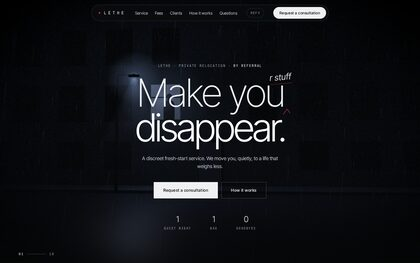
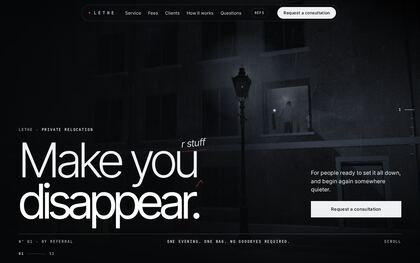
Process write-up: rounds 8 to 11, final screenshots and mapping

diff --git a/process/index.html b/process/index.html
@@ -295,13 +295,13 @@ table.map td.keep .mini{width:100%}
 
 <!-- ============ COVER ============ -->
 <section class="cover">
-  <div class="draft">DRAFT 2 · 23 NOV 2026</div>
+  <div class="draft">FINAL · 24 NOV 2026</div>
   <p class="kick">Class 3 homework · interactive landing page</p>
   <h1>How we prompted</h1>
   <p class="sub">Every prompt, in order: what the feedback asked for, the prompt we gave the agents, the moodboard references behind it, what came back, and what we fixed. Niche: a moving company.</p>
   <div class="stats">
-    <div><b>7</b><span>rounds, 23 Nov 01:20 to 19:05</span></div>
-    <div><b>9</b><span>structured prompts, shown here in full</span></div>
+    <div><b>11</b><span>rounds, 23 Nov 01:20 to 24 Nov 02:55</span></div>
+    <div><b>13</b><span>structured prompts, shown here in full</span></div>
     <div><b>4</b><span>builder agents at most, working in parallel</span></div>
     <div><b>18</b><span>finished page versions; one chosen and polished</span></div>
   </div>
@@ -309,9 +309,9 @@ table.map td.keep .mini{width:100%}
     <div><i>01</i><span><a href="#brief">The brief, the niche and the moodboard</a></span></div>
     <div><i>02</i><span><a href="#map">Moodboard to website: which reference went where</a></span></div>
     <div><i>03</i><span><a href="#workflow">The workflow: one orchestrator, several builders</a></span></div>
-    <div><i>04</i><span><a href="#rounds">Round by round, prompts 1 to 7</a></span></div>
+    <div><i>04</i><span><a href="#rounds">Round by round, prompts 1 to 11</a></span></div>
     <div><i>05</i><span><a href="#anatomy">Anatomy of a good prompt</a></span></div>
-    <div><i>06</i><span><a href="#live">Live page and final screenshots (to add)</a></span></div>
+    <div><i>06</i><span><a href="#live">Live page, final screenshots and what changed</a></span></div>
   </div>
 </section>
 
@@ -355,7 +355,7 @@ table.map td.keep .mini{width:100%}
   <table class="map">
     <tr><th>Section</th><th>Moodboard keep</th><th>What we took from it</th><th>On the page</th></tr>
     <tr><td class="sec">Nav</td><td class="keep"><figure><img src="img/mb-N31.jpg" alt=""><figcaption><b>N31</b> skylan.it</figcaption></figure></td><td class="took">Dark floating pill, always centred, one solid CTA</td><td class="built"><img src="img/map-nav.jpg" alt=""></td></tr>
-<tr><td class="sec">Hero</td><td class="keep"><figure><img src="img/mb-H02.jpg" alt=""><figcaption><b>H02</b> manuport-logistics.com</figcaption></figure></td><td class="took">Full-bleed scene behind very large type, three figures under it</td><td class="built"><img src="img/map-hero.jpg" alt=""></td></tr>
+<tr><td class="sec">Hero</td><td class="keep"><figure><img src="img/mb-H02.jpg" alt=""><figcaption><b>H02</b> manuport-logistics.com</figcaption></figure></td><td class="took">Full-bleed scene behind very large type; since round 8 on an editorial grid, headline low left, one line and one button low right</td><td class="built"><img src="img/map-hero.jpg" alt=""></td></tr>
 <tr><td class="sec">Premise</td><td class="keep"><figure><img src="img/mb-H02.jpg" alt=""><figcaption><b>H02</b> manuport-logistics.com</figcaption></figure></td><td class="took">One large line, three short facts under a rule</td><td class="built"><img src="img/map-premise.jpg" alt=""></td></tr>
 <tr><td class="sec">Three services</td><td class="keep"><figure><img src="img/mb-S05.jpg" alt=""><figcaption><b>S05</b> Movara (Dribbble)</figcaption></figure></td><td class="took">Row of cards; on tablet and phone the active one expands</td><td class="built"><img src="img/map-three-services.jpg" alt=""></td></tr>
 <tr><td class="sec">The evening</td><td class="keep"><figure><img src="img/mb-S02.jpg" alt=""><figcaption><b>S02</b> Logistics-Lion (Dribbble)</figcaption></figure></td><td class="took">Dark logistics panel, flattened to four marks on one line</td><td class="built"><img src="img/map-the-evening.jpg" alt=""></td></tr>
@@ -363,17 +363,19 @@ table.map td.keep .mini{width:100%}
 <tr><td class="sec">Kind words</td><td class="keep"><figure><img src="img/mb-T07.jpg" alt=""><figcaption><b>T07</b> Testimonial Website Sectio (Dribbble)</figcaption></figure></td><td class="took">The V12 portrait cards with covered eyes, rewritten</td><td class="built"><img src="img/map-kind-words.jpg" alt=""></td></tr>
 <tr><td class="sec">How it works</td><td class="keep"><figure><img src="img/mb-S06.jpg" alt=""><figcaption><b>S06</b> Logistics Service Website  (Dribbble)</figcaption></figure></td><td class="took">Numbered process row, four steps</td><td class="built"><img src="img/map-how-it-works.jpg" alt=""></td></tr>
 <tr><td class="sec">What we handle</td><td class="keep"><figure><img src="img/mb-S23.jpg" alt=""><figcaption><b>S23</b> cal.com</figcaption></figure></td><td class="took">Four equal feature cards, label over title over one line</td><td class="built"><img src="img/map-what-we-handle.jpg" alt=""></td></tr>
+<tr><td class="sec">The drive</td><td class="keep"><figure><img src="img/mb-H02.jpg" alt=""><figcaption><b>H02</b> manuport-logistics.com</figcaption></figure></td><td class="took">One large line over the scene, as Premise. The scene carries the section (added in round 8)</td><td class="built"><img src="img/map-the-drive.jpg" alt=""></td></tr>
+<tr><td class="sec">Afterwards</td><td class="keep"><figure><img src="img/mb-H02.jpg" alt=""><figcaption><b>H02</b> manuport-logistics.com</figcaption></figure></td><td class="took">One large line over the scene (added in round 9)</td><td class="built"><img src="img/map-afterwards.jpg" alt=""></td></tr>
 <tr><td class="sec">Questions</td><td class="keep"><figure><img src="img/mb-P29.jpg" alt=""><figcaption><b>P29</b> linear.app</figcaption></figure></td><td class="took">Two-column question list under a rule. The moodboard has no FAQ category; this is the closest kept reference</td><td class="built"><img src="img/map-questions.jpg" alt=""></td></tr>
 <tr><td class="sec">Consultation</td><td class="keep"><figure><img src="img/mb-C02.jpg" alt=""><figcaption><b>C02</b> The Funded Bettor (Dribbble)</figcaption></figure></td><td class="took">Centred call to action, copy over the form</td><td class="built"><img src="img/map-consultation.jpg" alt=""></td></tr>
 <tr><td class="sec">Footer</td><td class="keep"><figure><img src="img/mb-F06.jpg" alt=""><figcaption><b>F06</b> Footer Design (Dribbble)</figcaption></figure></td><td class="took">Dark footer line, outline wordmark (phone), plain-language terms</td><td class="built"><img src="img/map-footer.jpg" alt=""></td></tr>
   </table>
-  <p class="note">All sections of the final page are listed, including the four added in round 7. On the page itself, the R key or the Refs switch in the nav shows these ids over each section.</p>
+  <p class="note">All sections of the final page are listed, including the four added in round 7, the drive (round 8) and Afterwards (round 9). The right-hand pictures are the live page on 24 Nov. The depth indicator added in round 11 has no moodboard keep: it copies the page's own counter. On the page itself, the R key or the Refs switch in the nav shows these ids over each section.</p>
   <div class="card"><h4>Class gallery pieces on the final page</h4>
     <ul style="margin-top:4pt">
       <li><b>GSAP Observer, full-page sections:</b> the section snap. One scroll step moves exactly one section.</li>
       <li><b>Cult UI, expandable cards:</b> the three services and the questions on tablet and phone.</li>
-      <li><b>Magic UI, blur-fade:</b> each section's content arrives from blur when the section becomes active.</li>
-      <li><b>Interactive background:</b> the 3D night scene, which advances one beat per section and tilts slightly with the pointer.</li>
+      <li><b>Magic UI, blur-fade:</b> each section's content fades and rises in when the section becomes active. The blur itself was removed in round 10, because blurring text over a live 3D scene cost frames.</li>
+      <li><b>Interactive background:</b> the 3D night scene, which advances one story beat per section and moves slightly with the pointer.</li>
     </ul>
     <p class="note" style="margin:4pt 0 0">The gallery pieces are rebuilt from their behaviour in plain HTML, CSS and JavaScript, as the class allowed ("copy the code or describe the piece to the AI").</p></div>
 </section>
@@ -880,7 +882,7 @@ table.map td.keep .mini{width:100%}
 </section>
 
 <section class="round" id="round-7">
-  <div class="rhead"><div class="no">7</div><div><h3>Polish V16 into the final page</h3><p>23 Nov 19:05 · agent 3 · in progress as this draft is written</p></div></div>
+  <div class="rhead"><div class="no">7</div><div><h3>Polish V16 into the final page</h3><p>23 Nov 19:05 · agent 3</p></div></div>
   <p class="ask"><b>What the feedback asked for</b>V16 is the one. Make the wording less direct, so that every line reads as a legitimate service. Add more sections with more information. Make the animation load earlier, look sharper and feel more dramatic.</p>
   <div class="prompt"><div class="plabel">Prompt 7 · 23 Nov 19:05 · to agent 3</div>
 <div class="ph ph1">Round 7: polish V16 into the final homework page</div>
@@ -915,7 +917,7 @@ table.map td.keep .mini{width:100%}
 </div>
   <h3>What came back</h3>
   <div class="thumbs c4"><figure><img src="img/r7-hero.jpg" alt=""><figcaption>V16 after polish: hero</figcaption></figure><figure><img src="img/r7-how.jpg" alt=""><figcaption>V16: how it works</figcaption></figure><figure><img src="img/r7-faq.jpg" alt=""><figcaption>V16: questions</figcaption></figure><figure><img src="img/r7-phone.jpg" alt=""><figcaption>V16 phone 390: hero</figcaption></figure></div>
-  <p class="note">The page as it stood at 19:30 on 23 Nov, with the four new sections in place. The polish may still be in progress; the frame-rate figure and the final snap-test result go here when the done line arrives.</p>
+  <ul><li>The four new sections landed: eleven snap pages on desktop, thirteen on tablet, fifteen on phone.</li><li>The snap test passed at five screen sizes, including a trackpad-momentum test.</li><li>The agent reported the frame rate as measured (37 to 61 fps with other jobs running on the laptop), below the 50 fps asked for on some pages.</li></ul>
   <div class="card lesson"><h4>What this prompt does differently</h4><ul style="margin-top:4pt">
     <li><b>It gives a test for copy.</b> "Every line, quoted alone, must read as a legitimate service" is something the agent can check line by line. "Make it less direct" is not.</li>
     <li><b>It turns "better animation" into three separate requirements:</b> earlier (scene visible within about 600 ms), sharper (pixel ratio and antialiasing), more dramatic (light changes, camera weight, one slow beat), with a frame-rate floor so quality does not cost smoothness.</li>
@@ -923,6 +925,172 @@ table.map td.keep .mini{width:100%}
   </ul></div>
 </section>
 
+<section class="round" id="round-8">
+  <div class="rhead"><div class="no">8</div><div><h3>Realistic scene, a ride that shows relief, a factory ending</h3><p>23 Nov 19:57 · agent 3</p></div></div>
+  <p class="ask"><b>What the feedback asked for</b>Make the 3D realistic, not low-poly. End at a large factory, not a house. Redo the hero layout and sharpen all the wording. During the drive, show him being freed from the circles of responsibility he carried. <span style="color:#6b5600">In his words: &ldquo;It is still too low poly... instead of ending it in a farmhouse, let&#x27;s end it in a factory... could you animate something like he&#x27;s being relieved from the circles?&rdquo;</span></p>
+  <div class="prompt"><div class="plabel">Prompt 8 · 23 Nov 19:57 · to agent 3</div>
+<div class="ph ph1">Round 8: V16 to final quality</div>
+<div class="gap"></div>
+<div class="tg">&lt;context&gt;</div>
+<div class="pp">The client reviewed the live V16. The 3D still looks low-poly, the hero layout and the wording are not good enough, and the story should not end at a single house. He likes how the page shows the team coming for the client. During the drive he wants to see the person being relieved of what he carried. Target: 22:30 on 23 Nov (+06); the live site is updated after this round.</div>
+<div class="gap"></div>
+<div class="tg">&lt;task&gt;</div>
+<div class="pp">Agent 3 takes V16 to final quality in place. Keep a copy of the round 7 page first.</div>
+<div class="gap"></div>
+<div class="tg">&lt;requirements&gt;</div>
+<div class="pl" style="margin-left:0pt"><span class="mk">1.</span>Realistic, high-poly 3D. Replace the primitives with real models and physically based materials: a van, human figures (rigged if a licensed one fits), street props, building facades. Night lighting from an HDRI, roughness and normal maps, soft shadows, wet-road reflections, headlight beams, depth of field and film grain. Preload during the hero; hold 45 fps or better on this laptop&#x27;s integrated GPU at a pixel ratio of 1.5 or less; a lighter level of detail on phones.</div>
+<div class="pl" style="margin-left:0pt"><span class="mk">2.</span>A new ending: a large factory at night, with sodium lights, chimneys, loading bays and steam. Ominous and ambiguous: &quot;the facility where new beginnings are processed&quot;. Not a house.</div>
+<div class="pl" style="margin-left:0pt"><span class="mk">3.</span>The ride is relief. Rings around the seated figure, each one a burden with a label. They crack and fall away or dissolve into light one by one, until he sits lighter and upright. Restrained and cinematic, never cartoonish, and legally ambiguous: relief and a fresh start, nothing about evading anyone.</div>
+<div class="pl" style="margin-left:0pt"><span class="mk">4.</span>Hero layout and wording, redone: an editorial grid, the caret headline as the focus, one clear call to action, a short sub-line that sells relief; better hierarchy and spacing at 390, 768 and 1440 px. Rewrite all section copy to be sharper and more premium, under the round 7 copy rules.</div>
+<div class="gap"></div>
+<div class="tg">&lt;references&gt;</div>
+<div class="pl" style="margin-left:0pt"><span class="mk">&ndash;</span>Free-licensed assets only (CC0, or CC-BY with credit): models, textures and the HDRI, each listed with source and licence.</div>
+<div class="pl" style="margin-left:0pt"><span class="mk">&ndash;</span>The moodboard keep of every section stays in the references layer; update it for new or changed sections.</div>
+<div class="gap"></div>
+<div class="tg">&lt;decisions&gt;</div>
+<div class="pp">Already decided: section snap, the centred pill nav, the cold palette, the phone and tablet layouts, reduced motion and the references layer all stay. Keep the scenes of the team coming for the client.</div>
+<div class="pp">Your call: which models, how the rings look, the exact wording.</div>
+<div class="pp">Ask me before: paid assets, or sending anything outside this laptop other than downloading free assets.</div>
+<div class="gap"></div>
+<div class="tg">&lt;verification&gt;</div>
+<div class="pp">Measure the frame rate. Re-run the snap test. Screenshot every section at 390, 768 and 1440 px.</div>
+<div class="gap"></div>
+<div class="tg">&lt;output&gt;</div>
+<div class="pp">The page, the model folder (under 25 MB), an assets file with every source and licence, the sources and responsive files, screenshots, a preview image. Renders go through the shared render queue, without a visible browser window. Print DONE r8-V16 &lt;path&gt; &lt;one line&gt;.</div>
+</div>
+  <h3>Which moodboard reference each change maps to</h3>
+  <table class="t"><tr><th>Change</th><th>Section</th><th>Moodboard keep</th></tr><tr><td>Hero redone on a 12-column grid</td><td>Hero</td><td class="ids">H02</td></tr><tr><td>New section: the drive (one line over the scene)</td><td>The drive</td><td class="ids">H02</td></tr><tr><td>Factory behind the last two sections; their layout is unchanged</td><td>Questions, Consultation</td><td class="ids">P29, C02</td></tr><tr><td>Copy rewritten, layouts kept</td><td>Services, Evening, Fees, Kind words, How it works, What we handle</td><td class="ids">S05, S02, S02 + P08, T07, S06, S23</td></tr></table>
+  <h3>What came back</h3>
+  <div class="thumbs c4"><figure><img src="img/r7-hero.jpg" alt=""><figcaption>Before (round 7): hero</figcaption></figure><figure><img src="img/r8-hero.jpg" alt=""><figcaption>After: hero on an editorial grid</figcaption></figure><figure><img src="img/r8-ride.jpg" alt=""><figcaption>New: the drive, five labelled rings</figcaption></figure><figure><img src="img/r8-factory.jpg" alt=""><figcaption>New ending: the facility</figcaption></figure></div>
+  <ul><li>Real rigged adults with motion-captured walk, idle and sitting clips (a free MIT-licensed avatar library); street lamp, bed, chair, barrels and all surface textures from a CC0 library; a night HDRI graded to the cold palette.</li><li>The drive became a section of its own: the client sits slumped inside five labelled steel rings that break one by one.</li><li>The agent changed one thing on purpose and said so: the rings read OBLIGATIONS, EXPECTATIONS, THE JOB, THE NOISE, THE WEIGHT. The prompt suggested "rent", "debt" and "the name"; a ring marked "debt" falling away is the one image a reader could quote against the firm, and the round 7 copy rule comes first.</li><li>Honest gaps in its report: no free realistic van could be downloaded without an account, so the van is modelled in code; 37 to 61 fps under load, with two pages under the 45 fps target; first frame after 4.2 s, not the 600 ms asked for in round 7.</li></ul>
+
+  <div class="card lesson"><h4>What we learned</h4><ul style="margin-top:4pt"><li>A rule from an earlier round still binds a later prompt. The agent weighed "labels like debt" against "nothing that implies leaving debts behind" and kept the older rule, then reported the deviation so the client could overrule it.</li><li>Asking for sources and licences in the output made the asset choices checkable: every model has a link and a licence line.</li><li>A frame-rate number in the prompt produced a measurement, and the measurement showed the target was missed. Without the number we would have been told "it runs well".</li></ul></div>
+</section>
+<section class="round" id="round-9">
+  <div class="rhead"><div class="no">9</div><div><h3>A household worth leaving, a better ring scene, readable type</h3><p>23 Nov 21:47 · agent 3 · add-ons at 22:21 and 22:26</p></div></div>
+  <p class="ask"><b>What the feedback asked for</b>Give the story a reason: an unhappy household, an argument, him at the window, her asleep while he is led out, and the same room afterwards. Recompose the ring scene. Make the font easier to read and fix the small layout faults. Then: optimise, and make sure the text wins over the 3D. <span style="color:#6b5600">In his words: &ldquo;When the guy is in his house, why not add some background that shows the household is abusive?... The box &quot;what would you leave behind&quot;: there is no padding above the line.&rdquo;</span></p>
+  <div class="prompt"><div class="plabel">Prompt 9 · 23 Nov 21:47, with two add-ons at 22:21 and 22:26 · to agent 3</div>
+<div class="ph ph1">Round 9: polish V16 before it is published</div>
+<div class="gap"></div>
+<div class="tg">&lt;context&gt;</div>
+<div class="pp">The client finds round 8 quite good and wants it polished before it goes out. The start of the story needs a reason: show that the household is an unhappy one. The scene with the rings is a good idea with a weak execution. The font should be easier to read, and there are small layout faults, starting with the &quot;What would you leave behind?&quot; box, which has no padding above its first line. No rush: quality first; the homework is due on Wed 25 Nov at 01:00.</div>
+<div class="gap"></div>
+<div class="tg">&lt;task&gt;</div>
+<div class="pp">Agent 3 polishes V16 in place. Keep a copy of the round 8 page first.</div>
+<div class="gap"></div>
+<div class="tg">&lt;requirements&gt;</div>
+<div class="pl" style="margin-left:0pt"><span class="mk">1.</span>Story beats at the start. Restrained and cinematic, never graphic, no violence shown:</div>
+<div class="pl" style="margin-left:9pt"><span class="mk">&ndash;</span>The house at night: a lit window, a cold, tense household.</div>
+<div class="pl" style="margin-left:9pt"><span class="mk">&ndash;</span>A new angle: a woman arguing with him and pointing at him; he stands withdrawn, head down.</div>
+<div class="pl" style="margin-left:9pt"><span class="mk">&ndash;</span>He looks out of the window; the team&#x27;s lights appear outside.</div>
+<div class="pl" style="margin-left:9pt"><span class="mk">&ndash;</span>Later that night: she is asleep; the team lead him out quietly; she does not wake.</div>
+<div class="pl" style="margin-left:9pt"><span class="mk">&ndash;</span>After the drive, back to the same household: life goes on unchanged, nobody has noticed yet. It must read as someone choosing to leave a bad home.</div>
+<div class="pl" style="margin-left:0pt"><span class="mk">2.</span>The relief scene, recomposed: rule of thirds, the figure lit from one side, the rings as readable shapes at different depths, a camera that drifts a few degrees on its own, every label legible, each ring&#x27;s release a beat of its own, and a final calm wide shot of him upright. It must read in one glance on a phone.</div>
+<div class="pl" style="margin-left:0pt"><span class="mk">3.</span>Type that is easier to read, phone first: body text at least 17 px on phone and 18 px on desktop, more line height, more contrast over the scene (a scrim where needed), heavier small labels, no thin grey text.</div>
+<div class="pl" style="margin-left:0pt"><span class="mk">4.</span>A polish pass: fix every small layout fault, starting with the form box. Check every section at 390, 768 and 1440 px for padding, alignment, overlaps and cut-off text.</div>
+<div class="pl" style="margin-left:0pt"><span class="mk">5.</span>Add-on, 22:21. Optimisation is a hard requirement: any PC or phone must run it without lag. Quality tiers chosen at load and adjusted live; smaller assets; later sections loaded lazily; first screen under about 3 MB. Measure and report.</div>
+<div class="pl" style="margin-left:0pt"><span class="mk">6.</span>Add-on, 22:26. Squint test, text first. The 3D is a mood layer, not the subject. Lift the blacks slightly, lower contrast and saturation, soften what sits behind text. Blur every screenshot and check that the text is still the strongest shape; save the blurred checks and note pass or fail per section.</div>
+<div class="gap"></div>
+<div class="tg">&lt;decisions&gt;</div>
+<div class="pp">Already decided: section snap, the centred pill nav, the palette and the legally safe copy stay.</div>
+<div class="pp">Your call: which second figure, the layout of the room, how the rings and their names are drawn.</div>
+<div class="gap"></div>
+<div class="tg">&lt;verification&gt;</div>
+<div class="pp">Snap test at five sizes. Frame rate per section under load and with a throttled CPU at a phone size. A performance audit score. First-load size.</div>
+<div class="gap"></div>
+<div class="tg">&lt;output&gt;</div>
+<div class="pp">The same files as round 8, plus the blurred squint checks. Print DONE r9-V16 &lt;path&gt; &lt;one line&gt;.</div>
+</div>
+  <h3>Which moodboard reference each change maps to</h3>
+  <table class="t"><tr><th>Change</th><th>Section</th><th>Moodboard keep</th></tr><tr><td>Story scenes behind unchanged layouts</td><td>Premise, Three services, The evening, Fees</td><td class="ids">H02, S05, S02, S02 + P08</td></tr><tr><td>New page: one large line over the room</td><td>Afterwards</td><td class="ids">H02</td></tr><tr><td>Ring scene recomposed; names as text</td><td>How it works, What we handle, The drive</td><td class="ids">S06, S23, H02</td></tr><tr><td>Form padding fixed</td><td>Consultation</td><td class="ids">C02</td></tr><tr><td>Type sizes, weights and greys</td><td>All sections</td><td class="ids">no change of reference</td></tr></table>
+  <h3>What came back</h3>
+  <div class="thumbs c4"><figure><img src="img/r9-argument.jpg" alt=""><figcaption>New: she points, he stands head down</figcaption></figure><figure><img src="img/r9-night.jpg" alt=""><figcaption>New: she sleeps; he is shown to the door</figcaption></figure><figure><img src="img/r9-rings.jpg" alt=""><figcaption>Ring scene, recomposed; names are sharp text</figcaption></figure><figure><img src="img/r9-after.jpg" alt=""><figcaption>New page: the same room, one empty chair</figcaption></figure></div>
+  <ul><li>The lit window became a real opening: from the street the argument is visible inside, and the camera flies through it into the room and back out.</li><li>One page was added, "Afterwards", between the drive and the facility; desktop now has 12 snap pages, tablet 14, phone 16.</li><li>The ring names are text laid over the scene, pinned to each ring, so they stay sharp on phones; a name is struck through in red when its ring breaks.</li><li>The form box fault was a later style rule that reset the padding to zero; fixed, with 16 px above the first line.</li><li>A fault no screenshot showed: every figure file carried a hidden ambient light, seven in all, which washed the indoor scenes white. Found by listing the lights in the running page.</li><li>Squint test: four desktop pages failed the first pass (her jacket, the lit door and the ring cage were as strong as the headline). After grading the scene down, every page passed at 390, 768 and 1440 px.</li><li>First screen 2.1 MB; three quality tiers. Not done and reported as such: the mesh and texture compression formats asked for, because the tools were not installed and downloading them was outside the round's rules.</li></ul>
+
+  <div class="card lesson"><h4>What we learned</h4><ul style="margin-top:4pt"><li>A story beat is a requirement like any other when it is written as a list: where, who, what they do, and the limit ("never graphic, no violence shown").</li><li>The squint test gave "text first" a pass or fail that the agent could run on its own screenshots, and it failed its own first pass.</li><li>Add-ons sent mid-round were folded in, but each one cost time: the report says plainly which parts of them were not done.</li></ul></div>
+</section>
+<section class="round" id="round-10">
+  <div class="rhead"><div class="no">10</div><div><h3>Speed pass: slower motion, faster page</h3><p>24 Nov 01:58 · agent 3</p></div></div>
+  <p class="ask"><b>What the feedback asked for</b>The page is slow and lags. Slow the animation down, make the site load fast, and use game-development optimisation. <span style="color:#6b5600">In his words: &ldquo;The website is slow, but I like it better. Make the animation slower but the site faster so it loads fast. It&#x27;s lagging a lot.&rdquo;</span></p>
+  <div class="prompt"><div class="plabel">Prompt 10 · 24 Nov 01:58 · to agent 3</div>
+<div class="ph ph1">Round 10: V16 speed pass</div>
+<div class="gap"></div>
+<div class="tg">&lt;context&gt;</div>
+<div class="pp">The client likes the round 9 page better, but it is slow and it lags a lot; that is now the main issue. He wants the animation slower and the site faster. Due before the class on Wed 25 Nov at 01:00.</div>
+<div class="gap"></div>
+<div class="tg">&lt;task&gt;</div>
+<div class="pp">Agent 3 makes the page load fast and run smoothly. The look and the story stay exactly as they are: this round is performance and pacing only. Keep a copy of the round 9 page first.</div>
+<div class="gap"></div>
+<div class="tg">&lt;requirements&gt;</div>
+<div class="pl" style="margin-left:0pt"><span class="mk">1.</span>Pacing: slow every camera move and scene transition by about 1.5 times. The snap must still land exactly.</div>
+<div class="pl" style="margin-left:0pt"><span class="mk">2.</span>Load fast: show the hero text and a still of the first scene at once, then fade the live scene in. Load by section: the current and the next section first, the rest while the browser is idle. Targets: first screen under 1 MB, total under 6 MB.</div>
+<div class="pl" style="margin-left:0pt"><span class="mk">3.</span>Smaller assets: re-check every texture (1K at most on desktop, 512 on phone), merge static props, strip unused animation, compress meshes. Install the compression tools if they are missing and use them.</div>
+<div class="pl" style="margin-left:0pt"><span class="mk">4.</span>Run smooth, by game-development rules: a 16 ms frame budget; static geometry merged, with frozen transforms and shared materials; one shadow light at a low map size; cheaper post-processing; figures updated only when visible; render less when nothing moves; drop resolution first and effects second, and never stutter.</div>
+<div class="pl" style="margin-left:0pt"><span class="mk">5.</span>Main thread: no layout work in scroll handlers; animate only transform and opacity; defer what is not needed for first paint.</div>
+<div class="gap"></div>
+<div class="tg">&lt;verification&gt;</div>
+<div class="pp">Report a before-and-after table: first-load size, time to first paint, the performance audit on mobile and desktop, frames per second per section idle and with a 4x slower CPU at 390 px, and the number of long tasks.</div>
+<div class="gap"></div>
+<div class="tg">&lt;output&gt;</div>
+<div class="pp">The updated page and assets, the table in the responsive report. Renders go through the shared render queue, without a visible browser window. Print DONE r10-V16 &lt;path&gt; &lt;one line&gt;.</div>
+</div>
+  <h3>Which moodboard reference each change maps to</h3>
+  <table class="t"><tr><th>Change</th><th>Section</th><th>Moodboard keep</th></tr><tr><td>No layout changes</td><td>All sections</td><td class="ids">all references unchanged</td></tr><tr><td>Card and panel backgrounds: blur removed</td><td>Three services, Fees, What we handle, Nav</td><td class="ids">S05, S02 + P08, S23, N31</td></tr></table>
+  <h3>What came back</h3>
+  <div class="thumbs c4"><figure><img src="img/r10-fees-before.jpg" alt=""><figcaption>Before: fee panels blur the live scene behind them</figcaption></figure><figure><img src="img/r10-fees.jpg" alt=""><figcaption>After: near-opaque panels, no blur</figcaption></figure><figure><img src="img/r10-hero.jpg" alt=""><figcaption>Hero: a still shows at once, the scene fades in</figcaption></figure><figure><img src="img/r10-handle.jpg" alt=""><figcaption>Same look and story as round 9</figcaption></figure></div>
+  <ul><li>Loading: bytes needed for the first live 3D frame went from 2.1 MB to 0.8 MB, and the whole page from 10.7 MB to 3.6 MB. Props and figures became compressed single files; the six animation clips became one small file.</li><li>Compositing: the five panels that blurred the live scene behind them now use near-opaque fills; text fades with opacity and movement only.</li><li>Rendering: on the laptop tier, no depth of field and no second scene pass; shadows redrawn every second frame; 315 static meshes merged; the scene drawn at half rate while a page rests.</li><li>Pacing: page turns 1.5 s instead of 1.0 s; ring breaks 2.5 s instead of 1.7 s.</li><li><b>The catch, stated in the report:</b> the automated browser already showed 60 frames per second before this round, so its frame numbers could not prove the lag was gone. The audit score barely moved on mobile (68 to 69).</li></ul>
+
+  <div class="card lesson"><h4>What we learned</h4><ul style="margin-top:4pt"><li><b>The measurement was the weak point, not the work.</b> The prompt asked for numbers but did not say where to measure. The agent measured in an automated browser without a window, where the page had never been slow. The client tested the result on two real machines and it was still slow.</li><li>A report that says "I cannot confirm this fixed what you saw" is more useful than a table of good numbers. It told us what the next prompt had to change.</li></ul></div>
+</section>
+<section class="round" id="round-11">
+  <div class="rhead"><div class="no">11</div><div><h3>Find the real cause, add a depth indicator, publish</h3><p>24 Nov 02:55 · agent 3</p></div></div>
+  <p class="ask"><b>What the feedback asked for</b>The round 10 build is still laggy and feels weird on two real machines. Open a real Chrome, look at the performance and network panels, find what is slow and fix it. Add six dashes on the right, numbered one to six, so people see how deep they are. <span style="color:#6b5600">In his words: &ldquo;It is still weird and slow... open a Chrome tab, check networking, check the performance tab, see why things are lagging... In the sidebar on the right, add dashes one after another.&rdquo;</span></p>
+  <div class="prompt"><div class="plabel">Prompt 11 · 24 Nov 02:55 · to agent 3</div>
+<div class="ph ph1">Round 11: real-browser speed, a depth indicator, then publish</div>
+<div class="gap"></div>
+<div class="tg">&lt;context&gt;</div>
+<div class="pp">The client tested the round 10 build on his desktop PC and on the laptop: still laggy, and the scrolling feels weird. The round 10 numbers came from a browser without a window and proved nothing about the real lag; they do not count any more. He also wants a way to see how deep into the page he is.</div>
+<div class="gap"></div>
+<div class="tg">&lt;task&gt;</div>
+<div class="pp">Agent 3 finds the real cause first, then fixes it, adds a depth indicator, and publishes to the real link. Keep a copy of the round 10 page first.</div>
+<div class="gap"></div>
+<div class="tg">&lt;requirements&gt;</div>
+<div class="pl" style="margin-left:0pt"><span class="mk">1.</span>Learn before making. Use a real Chrome with a GPU, started without taking focus. Record a performance trace while scrolling the whole page down and back, at 1440x900, once at full speed and once with the CPU slowed 4 times. Look at the network waterfall too: what blocks first paint, what arrives late.</div>
+<div class="pl" style="margin-left:0pt"><span class="mk">2.</span>Name the top causes with evidence from the trace: long tasks and what they are, layout work per scroll frame, shader compilation or texture upload when a section starts, GPU time, resolution, post-processing passes. Write cause, evidence, fix, and before and after.</div>
+<div class="pl" style="margin-left:0pt"><span class="mk">3.</span>&quot;Weird&quot; probably means the scroll feel: snap jumps, a delayed catch-up. Check it and make scrolling feel immediate.</div>
+<div class="pl" style="margin-left:0pt"><span class="mk">4.</span>Fix in order of impact, one change at a time, and trace again after each. Targets in the real Chrome on this laptop: no long task over 50 ms while scrolling, 95% of frames under 16.7 ms, no visible hitch at section changes. Text stays readable.</div>
+<div class="pl" style="margin-left:0pt"><span class="mk">5.</span>Depth indicator: on the right, vertically centred, six short dashes labelled 1 to 6. The current one is longer and brighter; clicking one goes to that part of the page. Match the type, colour and motion of the page counter at the bottom left. Small and quiet, never over text; dots on a phone. Usable by keyboard and screen reader.</div>
+<div class="pl" style="margin-left:0pt"><span class="mk">6.</span>Publish: copy the final files to the site repository, keep its process page, commit, push, deploy to production, and check that every file on the live link answers.</div>
+<div class="gap"></div>
+<div class="tg">&lt;decisions&gt;</div>
+<div class="pp">Already decided: the look, the story and the copy stay.</div>
+<div class="pp">Your call: how to group twelve pages under six dashes.</div>
+<div class="pp">Ask me before: anything outside this one site and its repository.</div>
+<div class="gap"></div>
+<div class="tg">&lt;output&gt;</div>
+<div class="pp">The live link; the findings file; one line with the top three causes and the before-and-after frame numbers. Print DONE r11-V16 &lt;live url&gt; &lt;one line&gt; when live.</div>
+</div>
+  <h3>Which moodboard reference each change maps to</h3>
+  <table class="t"><tr><th>Change</th><th>Section</th><th>Moodboard keep</th></tr><tr><td>Depth indicator, right edge</td><td>Whole page</td><td class="ids">none: it copies the page&#x27;s own counter (mono type, greys, 0.9 s easing); the nearest keep is the nav, N31</td></tr><tr><td>No layout changes</td><td>All sections</td><td class="ids">all references unchanged</td></tr></table>
+  <h3>What came back</h3>
+  <div class="thumbs c4"><figure><img src="img/r11-hero.jpg" alt=""><figcaption>Live: depth indicator on the right, part 1</figcaption></figure><figure><img src="img/r11-night.jpg" alt=""><figcaption>Live: part 2 of 6 is longer and numbered</figcaption></figure><figure><img src="img/r11-ride.jpg" alt=""><figcaption>Live: part 5, the drive</figcaption></figure><figure><img src="img/r11-phone.jpg" alt=""><figcaption>Phone 390: the dashes become dots</figcaption></figure></div>
+  <ul><li><b>Cause 1:</b> shaders were compiled and textures uploaded the first time a section came into view. The trace showed one 383 ms stall on the second page turn and freezes of 233 to 381 ms on that turn. Fix: everything compiled and uploaded before the first page turn.</li><li><b>Cause 2:</b> the render resolution stepped up while a page rested and down again on the next turn, and each step rebuilt every render buffer: stalls of 52 to 168 ms in mid-scroll. Fix: resolution only steps down, and never during a turn.</li><li><b>Cause 3:</b> every static part of the scene had its position recalculated on every frame, hidden sets and hidden figures included. On the slow CPU this alone produced 120 stalls in one pass. Fix: static parts frozen, hidden parts skipped.</li><li>Scroll feel: round 10 had made each turn 1.5 s with a slow start, so nothing moved at first and extra key presses were thrown away. Now 1.0 s, moving on the first frame, and one key press or swipe made during a turn is kept and played next.</li><li>Depth indicator: six dashes for twelve pages, two pages each (Arrival, The service, Fees and clients, How it works, The drive, Questions and contact).</li><li>Published to the live link; all 75 asset files answered.</li></ul>
+  <h3>The speed numbers, in plain words</h3>
+  <p>Measured in a real Chrome on the laptop, scrolling down through all twelve pages and back. "Slow CPU" means the processor slowed four times, the nearest thing we had to a weaker PC. Round 11 was run several times; the runs differ, because other jobs were using the machine.</p>
+  <table class="t"><tr><th>What we counted</th><th>Round 10</th><th>Round 11</th></tr>
+  <tr><td>Stalls of the page's own code over 50 ms while scrolling, slow CPU</td><td>120, adding up to 9.0 s</td><td>0, 12 and 60 in three runs (at most 3.8 s)</td></tr>
+  <tr><td>Slowest 5% of frames, slow CPU</td><td>59.8 ms or longer</td><td>35.9 to 53 ms</td></tr>
+  <tr><td>Frames that took over 50 ms, slow CPU</td><td>180</td><td>10, 34 and 126</td></tr>
+  <tr><td>Stalls over 50 ms while scrolling, normal speed</td><td>1</td><td>0, 0, 1 and 3 in four runs</td></tr>
+  <tr><td>Frames that took over 50 ms, normal speed</td><td>8</td><td>3, 18, 7 and 11</td></tr>
+  <tr><td>Longest single freeze, normal speed</td><td>267 ms</td><td>100 to 250 ms</td></tr>
+  <tr><td>Longest single freeze with the recorder running</td><td>1,994 ms</td><td>478 ms</td></tr>
+  <tr><td>Size needed for the first live 3D frame (round 9: 2.1 MB)</td><td>0.8 MB</td><td>0.8 MB</td></tr>
+  <tr><td>Size of the whole page (round 9: 10.7 MB)</td><td>3.6 MB</td><td>3.6 MB</td></tr></table>
+  <p class="note">The targets in the prompt were not met, and the report says so. "No stall over 50 ms" held in two of four runs at normal speed. Freezes of 100 to 250 ms still happen with no stall in the page's code. The clear gain is on the slow CPU. The Chrome window had to stay off screen, so the "95% of frames under 16.7 ms" target could not be judged at all. The client's own test of the live page afterwards: "kinda good, okay".</p>
+
+  <div class="card lesson"><h4>What this prompt does differently</h4><ul style="margin-top:4pt"><li><b>It says where to measure.</b> "A real Chrome with a GPU" and "the round 10 numbers do not count" removed the loophole that round 10 fell through.</li><li><b>It puts learning before making.</b> The causes had to be named with evidence before any fix. Two of the three real causes were things round 10 never touched.</li><li><b>It still got an honest miss.</b> The targets were written as numbers, so the report could say exactly which ones were not reached and why one could not be judged.</li></ul></div>
+</section>
 <!-- ============ 5 ANATOMY ============ -->
 <section id="anatomy">
   <p class="kick">05</p>
@@ -967,19 +1135,34 @@ table.map td.keep .mini{width:100%}
 <!-- ============ 6 PLACEHOLDERS ============ -->
 <section class="end" id="live">
   <p class="kick">06</p>
-  <h2>Live page and final screenshots</h2>
-  <div class="box"><div><b>Live page</b> <a href="https://make-you-disappear.vercel.app/">make-you-disappear.vercel.app</a></div></div>
+  <h2>Live page, final screenshots and what changed</h2>
+  <p class="lede">Live page: <a href="https://make-you-disappear.vercel.app/"><b>make-you-disappear.vercel.app</b></a>. Final version: V16 "Lethe: Evaporation" after round 11.</p>
   <h3>Final screenshots</h3>
-  <div class="three">
-    <div class="box"><div><b>Desktop</b>1440 px</div></div>
-    <div class="box"><div><b>Tablet</b>768 px</div></div>
-    <div class="box"><div><b>Phone</b>390 px</div></div>
-  </div>
-  <h3>Final version</h3>
-  <p>V16 "Lethe: Evaporation", after the round 7 polish. Chosen for its type and styling, the section-by-section scroll, and the centred layout.</p>
+  <div class="thumbs" style="grid-template-columns:2.05fr 1.02fr .6fr;align-items:end"><figure><img src="img/final-desktop.jpg" alt=""><figcaption>Desktop, 1440 px</figcaption></figure><figure><img src="img/final-tablet.jpg" alt=""><figcaption>Tablet, 768 px</figcaption></figure><figure><img src="img/final-phone.jpg" alt=""><figcaption>Phone, 390 px</figcaption></figure></div>
+  <h3>What changed overall, round 7 to round 11</h3>
+  <table class="t"><tr><th>Round</th><th>What the client asked for</th><th>What changed on the page</th></tr>
+  <tr><td class="n">7</td><td>Wording that nobody could hold against the firm; more sections</td><td>Every line rewritten to read as a lawful, voluntary relocation service; four sections added</td></tr>
+  <tr><td class="n">8</td><td>Realistic 3D, a factory ending, relief during the drive</td><td>Real rigged figures and scanned props; the drive with five labelled rings; the facility at the end; hero on an editorial grid</td></tr>
+  <tr><td class="n">9</td><td>A reason for leaving; a better ring scene; readable type</td><td>The argument, the window, the night he is led out, and the same room afterwards; ring names as sharp text; larger, heavier type; the scene graded down so the text comes first</td></tr>
+  <tr><td class="n">10</td><td>Slower animation, faster site</td><td>Page weight 10.7 MB to 3.6 MB; no blur over the live scene; slower camera. The lag the client saw was not fixed</td></tr>
+  <tr><td class="n">11</td><td>Find the real lag; show how deep the visitor is</td><td>Three causes found in a real browser and fixed; scrolling answers at once; a six-step depth indicator; published</td></tr></table>
+  <h3>The final moodboard mapping</h3>
+  <table class="t"><tr><th>Section</th><th>Keep</th><th>Section</th><th>Keep</th></tr>
+  <tr><td>Nav</td><td class="ids">N31</td><td>How it works</td><td class="ids">S06</td></tr>
+  <tr><td>Hero</td><td class="ids">H02</td><td>What we handle</td><td class="ids">S23</td></tr>
+  <tr><td>Premise</td><td class="ids">H02</td><td>The drive</td><td class="ids">H02</td></tr>
+  <tr><td>Three services</td><td class="ids">S05</td><td>Afterwards</td><td class="ids">H02</td></tr>
+  <tr><td>The evening</td><td class="ids">S02</td><td>Questions</td><td class="ids">P29</td></tr>
+  <tr><td>Fees</td><td class="ids">S02 P08</td><td>Consultation</td><td class="ids">C02</td></tr>
+  <tr><td>Kind words</td><td class="ids">T07</td><td>Footer</td><td class="ids">F06</td></tr></table>
+  <div class="card"><h4>What is still open</h4><ul style="margin-top:4pt">
+    <li>Speed was measured on one laptop with other jobs running; the targets of round 11 were not fully met.</li>
+    <li>The page was never tested by us on a real phone.</li>
+    <li>The copy had a designer's wording pass, not a legal review. "Lethe" is a placeholder brand for a class exercise.</li>
+  </ul></div>
 </section>
 
-<footer class="pg">Class 3 homework · interactive landing page · moving company niche · 23 Nov 2026</footer>
+<footer class="pg">Class 3 homework · interactive landing page · moving company niche · 24 Nov 2026</footer>
 </main>
 
 <script>
